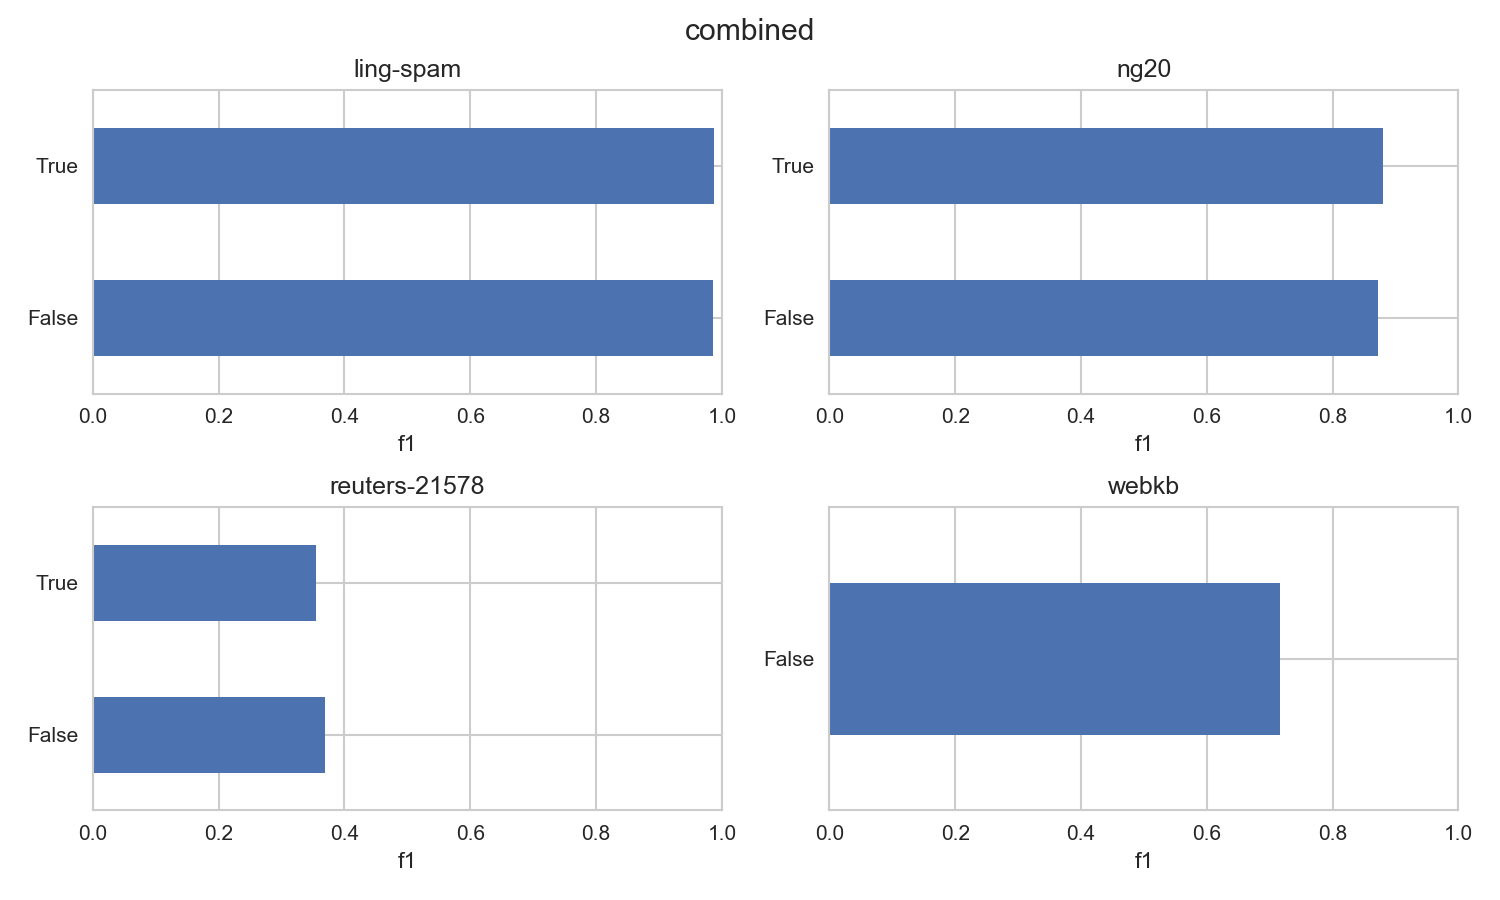
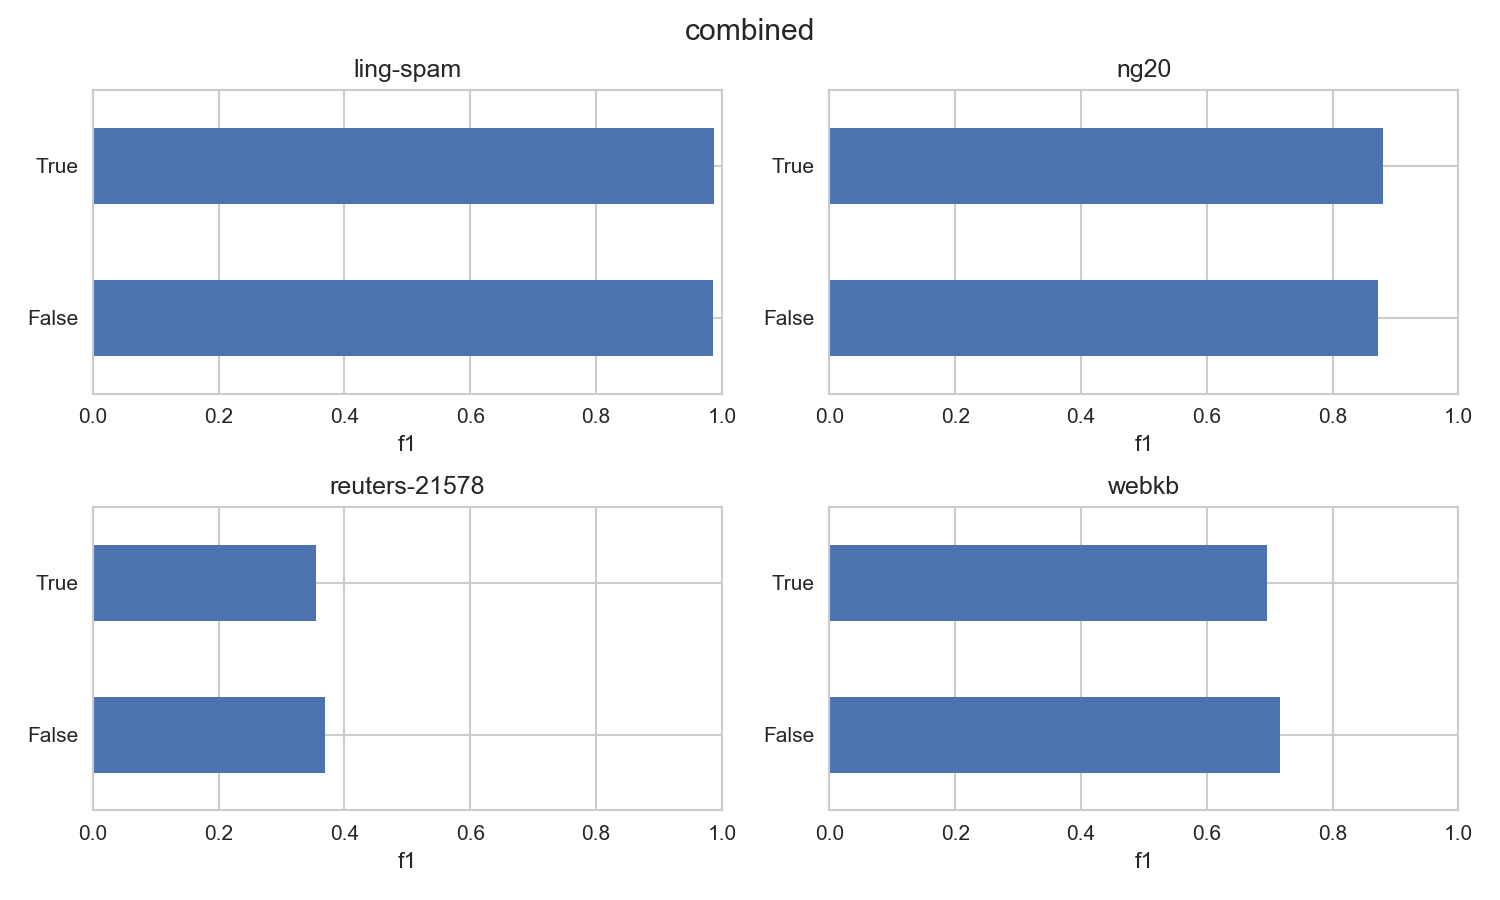
Fixed gram-matrix issue, added 3 more datasets

Changed region(s): [[0.5213, 0.5911, 0.8587, 0.7778], [0.5213, 0.8089, 0.8587, 0.8711]]

diff --git a/code/data/datasets/rotten_imdb/dataset.py b/code/data/datasets/rotten_imdb/dataset.py
@@ -1,0 +1,34 @@
+"""Subjectivity dataset (rotten, imdb)
+
+Paper
+    https://arxiv.org/pdf/cs/0409058.pdf
+    
+Link
+    http://www.cs.cornell.edu/people/pabo/movie-review-data/
+
+Download
+    http://www.cs.cornell.edu/people/pabo/movie-review-data/review_polarity.tar.gz
+"""
+
+
+import codecs
+import os
+
+current_folder = os.path.dirname(os.path.abspath(__file__))
+SRC_FOLDER = os.path.join(current_folder, 'src', 'rotten_imdb')
+
+def fetch(src_folder=SRC_FOLDER, file_quote = 'quote.tok.gt9.5000', file_plot = 'plot.tok.gt9.5000'):
+    X, Y = [], []
+
+    records = []
+    for file_name, class_name, encoding in zip([file_quote, file_plot], ['subjective', 'objective'], ['windows-1252', 'utf-8']):
+        with codecs.open(os.path.join(src_folder, file_name), encoding = encoding) as f:
+            text = f.read().strip()
+
+        for line in text.split('\n'):
+            line = line.strip()
+            if line == '': continue
+            
+            records.append((line, class_name))
+    X, Y = zip(*records)
+    return list(X), list(Y)

diff --git a/code/data/datasets/tagmynews/dataset.py b/code/data/datasets/tagmynews/dataset.py
@@ -1,0 +1,34 @@
+"""TagMyNews NEWS dataset
+
+Link
+    http://acube.di.unipi.it/tmn-dataset/
+
+Download
+    http://acube.di.unipi.it/repo/news.gz
+"""
+
+import codecs
+import os
+import pandas as pd
+
+current_folder = os.path.dirname(os.path.abspath(__file__))
+FILENAME = os.path.join(current_folder, 'src', 'news.txt')
+
+
+def fetch(filename=FILENAME):
+    title_fields = ['title', 'description', 'link', 'id', 'date', 'source', 'category']
+
+    with codecs.open(filename) as f:
+        text = f.read().strip()
+
+    records = [x.strip().split('\n') for x in text.split('\n\n') if x.strip().count('\n') == len(title_fields) - 1]
+
+    df = pd.DataFrame(records, columns=title_fields).set_index('id')
+    df['date'] = pd.to_datetime(df.date)
+
+    def record_to_text(record):
+        return '{record.description}'.format(record=record)
+        # return '{record.title} {record.description}'.format(record=record)
+
+    X, Y = zip(*[(record_to_text(item), item.category) for idx, item in df.iterrows()])
+    return list(X), list(Y)

diff --git a/code/dataset_helper.py b/code/dataset_helper.py
@@ -225,7 +225,7 @@ def get_all_cached_datasets(cache_path = CACHE_PATH):
     return sorted(glob(cache_path + '/*.npy'))
 
 def get_all_cached_graph_datasets(dataset_name = None, cache_path = CACHE_PATH):
-    return [x for x in get_all_cached_datasets(cache_path) if x.split('/')[-1].startswith('dataset_graph') and '_relabeled' not in x and 'phi' not in x and (not dataset_name or get_dataset_name_from_graph_cachefile(x) == dataset_name or get_dataset_name_from_graph_cachefile(x) == dataset_name + '-single')]
+    return [x for x in get_all_cached_datasets(cache_path) if x.split('/')[-1].startswith('dataset_graph') and '_relabeled' not in x and 'gram' not in x and 'phi' not in x and (not dataset_name or get_dataset_name_from_graph_cachefile(x) == dataset_name or get_dataset_name_from_graph_cachefile(x) == dataset_name + '-single')]
 
 def get_all_cached_graph_phi_datasets(dataset_name = None, cache_path = CACHE_PATH):
     if dataset_name:

diff --git a/code/data/datasets/review_polarity/dataset.py b/code/data/datasets/review_polarity/dataset.py
@@ -1,0 +1,33 @@
+"""Polarity dataset
+
+Paper
+    http://www.cs.cornell.edu/home/llee/papers/cutsent.pdf
+    
+Link
+    http://www.cs.cornell.edu/people/pabo/movie-review-data/
+
+Download
+    http://www.cs.cornell.edu/people/pabo/movie-review-data/rotten_imdb.tar.gz
+"""
+
+
+import codecs
+import os
+from glob import glob
+
+current_folder = os.path.dirname(os.path.abspath(__file__))
+SRC_FOLDER = os.path.join(current_folder, 'src', 'review_polarity', 'txt_sentoken')
+
+def fetch(src_folder=SRC_FOLDER):
+    X, Y = [], []
+    classes = ['neg', 'pos']
+
+    records = []
+    for clazz in classes:
+        for file in glob(os.path.join(src_folder, clazz, '*.txt')):
+            with codecs.open(file) as f:
+                text = f.read().strip()
+            record = (text, clazz)
+            records.append(record)
+    X, Y = zip(*records)
+    return list(X), list(Y)
